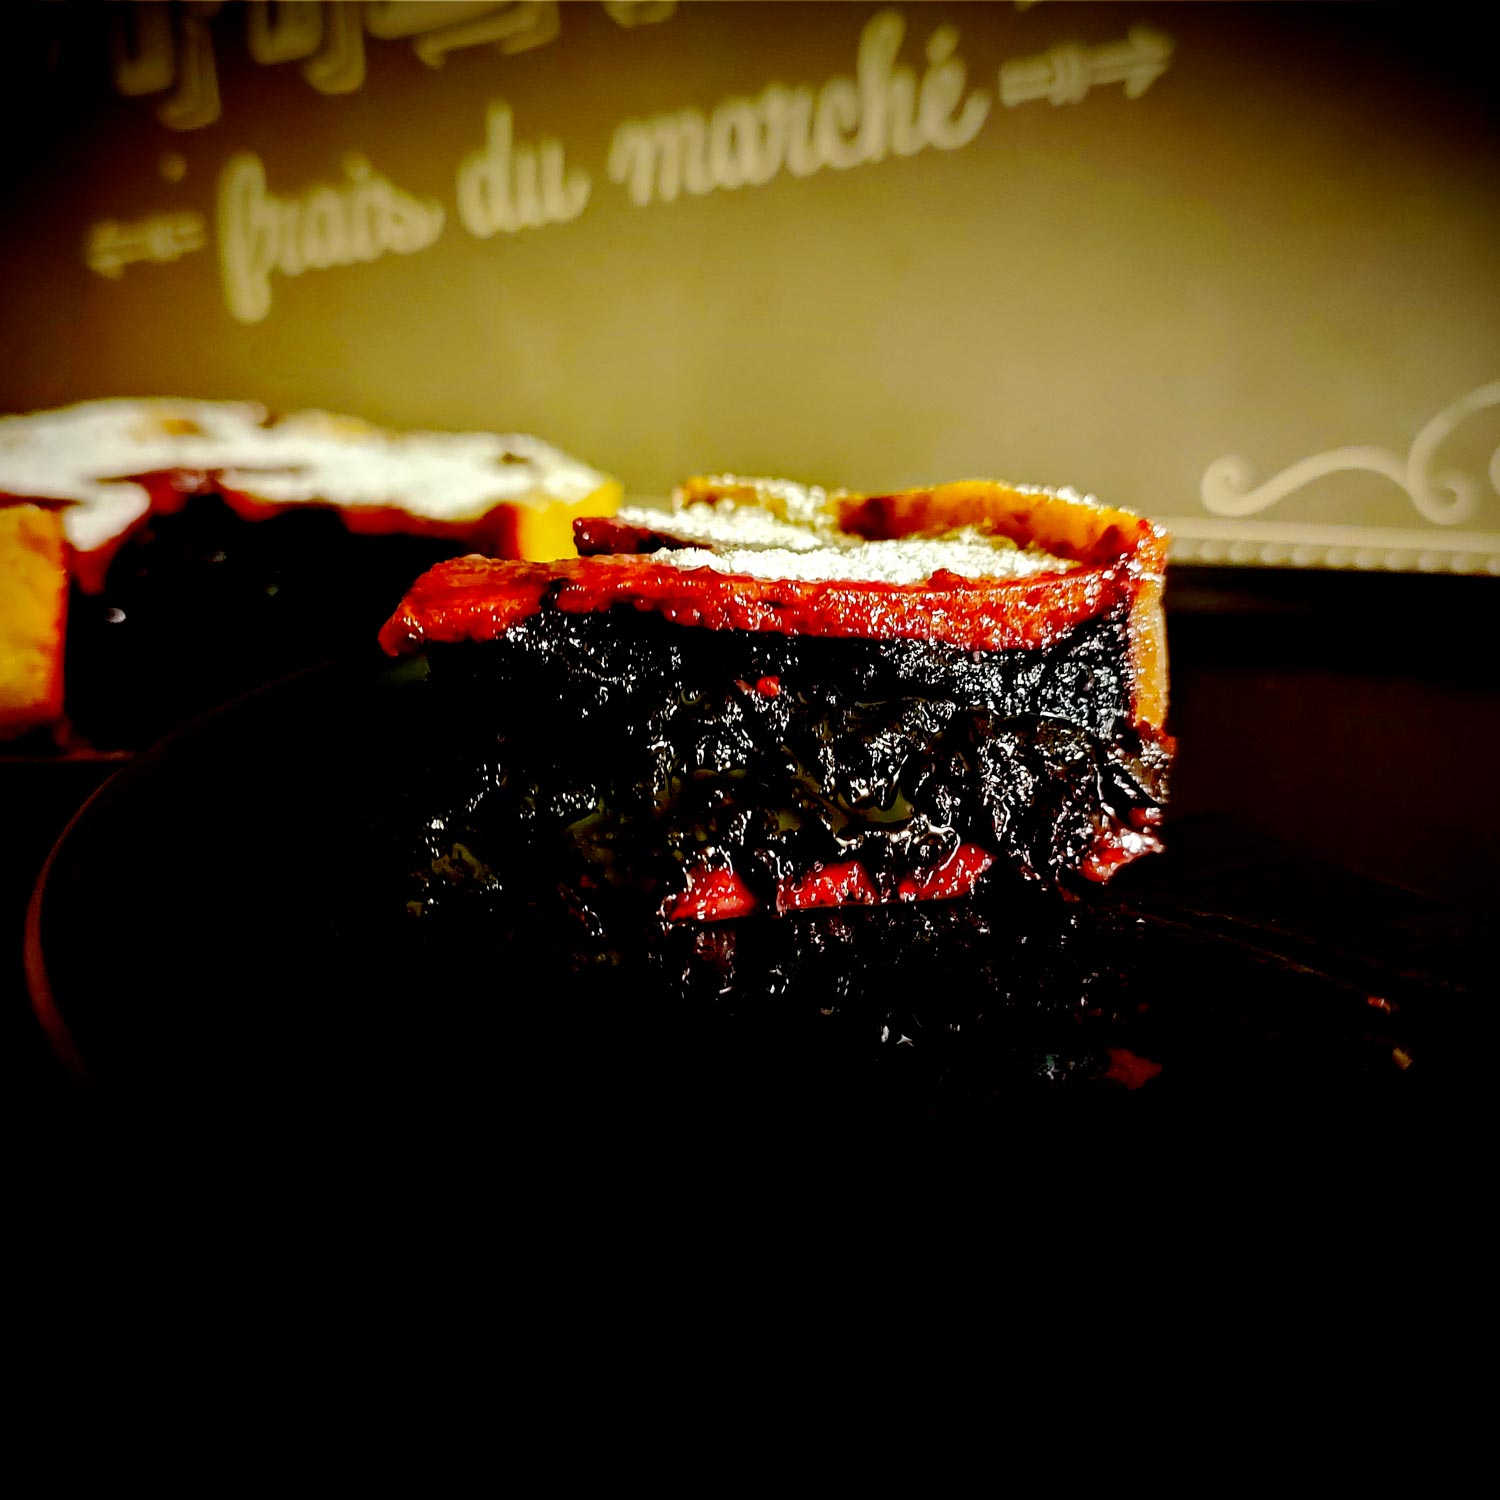
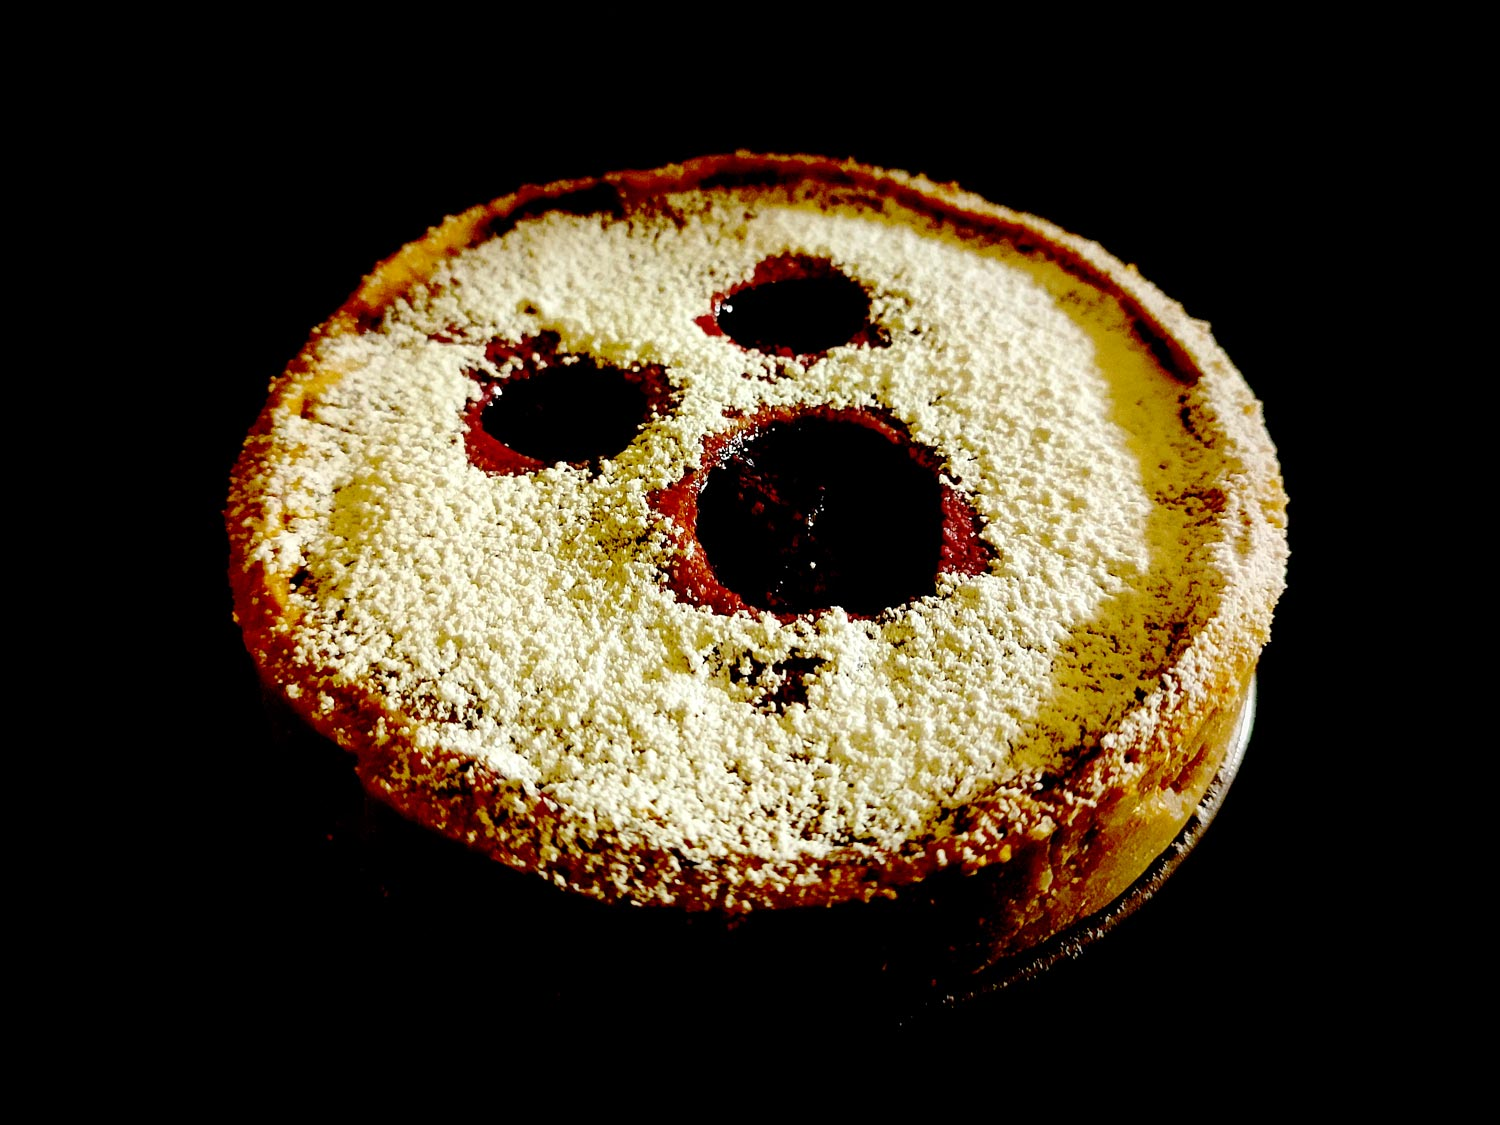
Enrichissement booberry + em cookies

diff --git a/_recipes/Em-cookies.md b/_recipes/Em-cookies.md
@@ -8,7 +8,16 @@ images:
     alt: "Vu du dessus, un cookie légèrement rose et craquelé duquel on devine les inserts. Au programme, morceaux de myrtilles, de chocolat blanc et de cacahuètes."
   - image:
     path: em-cookies/em-cookies-2.jpg
-    alt: "Le cookie est hyper moelleux, avec un peu de pulpe de myrtilles ici et là, et surtout des chunks de chocolat et de cacahuètes pour amener du fondant et du croquant." 
+    alt: "La pâte est beaucoup plus rose avant la cuisson, comme on peut le voir avec cette boule sur la plaque."
+  - image:
+    path: em-cookies/em-cookies-3.jpg
+    alt: "Le cookie craquelle bien sur le dessus, et on peut voir les morceaux de chocolat et de cacahuète en ressortir plus franchement qu’avec d’autres recettes."
+  - image:
+    path: em-cookies/em-cookies-4.jpg
+    alt: "Quand on coupe le cookie en 2, on découvre la pulpe de myrtilles."
+  - image:
+    path: em-cookies/em-cookies-5.jpg
+    alt: "Le cookie est hyper moelleux, et les chunks de chocolat et de cacahuètes amènent du fondant et du croquant." 
 cuisines: [américaine]
 courses: [snack]
 tags: [cookie, sans œuf]

diff --git a/_recipes/booberry-pie.md b/_recipes/booberry-pie.md
@@ -5,9 +5,16 @@ title: "Booberry Pie"
 images:
   - image:
     path: booberry-pie/booberry-pie-1.jpg
+    alt: "La tarte refermée sans glaçage ni décoration. On pourrait imaginer une version Jack O’Lantern puisque la couleur brune avec le son de blé de la pâte lui conviendrait très bien."
   - image:
     path: booberry-pie/booberry-pie-2.jpg
+    alt: "La même version fantôme avec un simple saupoudrage de sucre glace."
+  - image:
+    path: booberry-pie/booberry-pie-3.jpg
     alt: "La garniture aux myrtilles, avec le fruit entier enrobé dans sa gelée. Mieux vaut éviter la confiture, trop liquide pour que la tarte fermée se tienne bien."
+  - image:
+    path: booberry-pie/booberry-pie-4.jpg
+    alt: "La garniture va quand même rendre du jus lors de la conservation au frigo, ce qui crée un effet particulièrement sanglant autour de la bouche et des yeux."
 cuisines: [américaine]
 courses: [dessert, goûter]
 tags: [Halloween, tarte]
